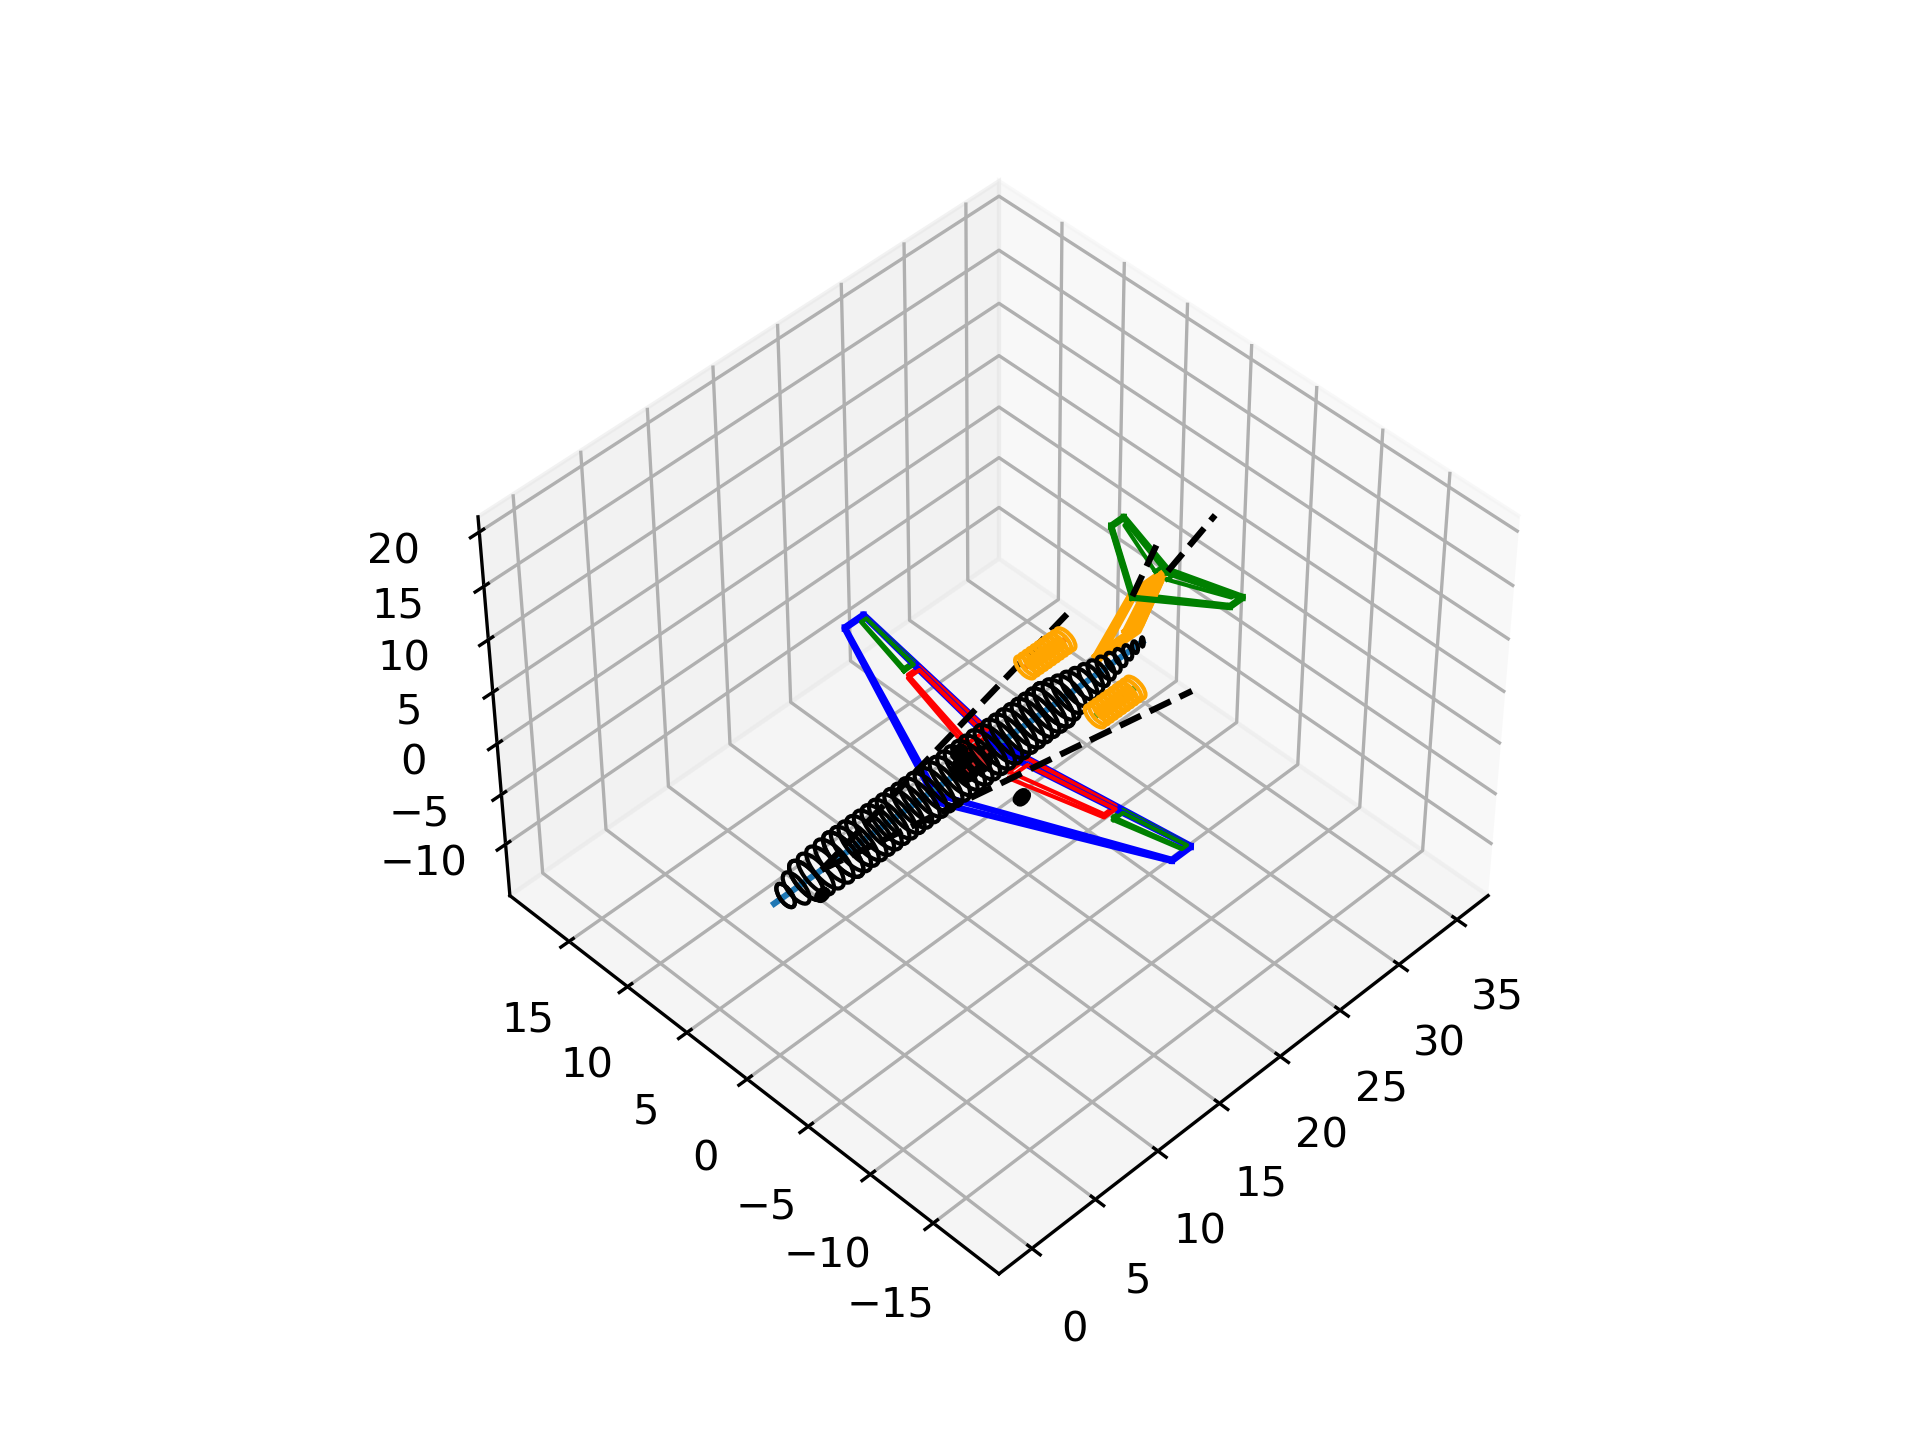
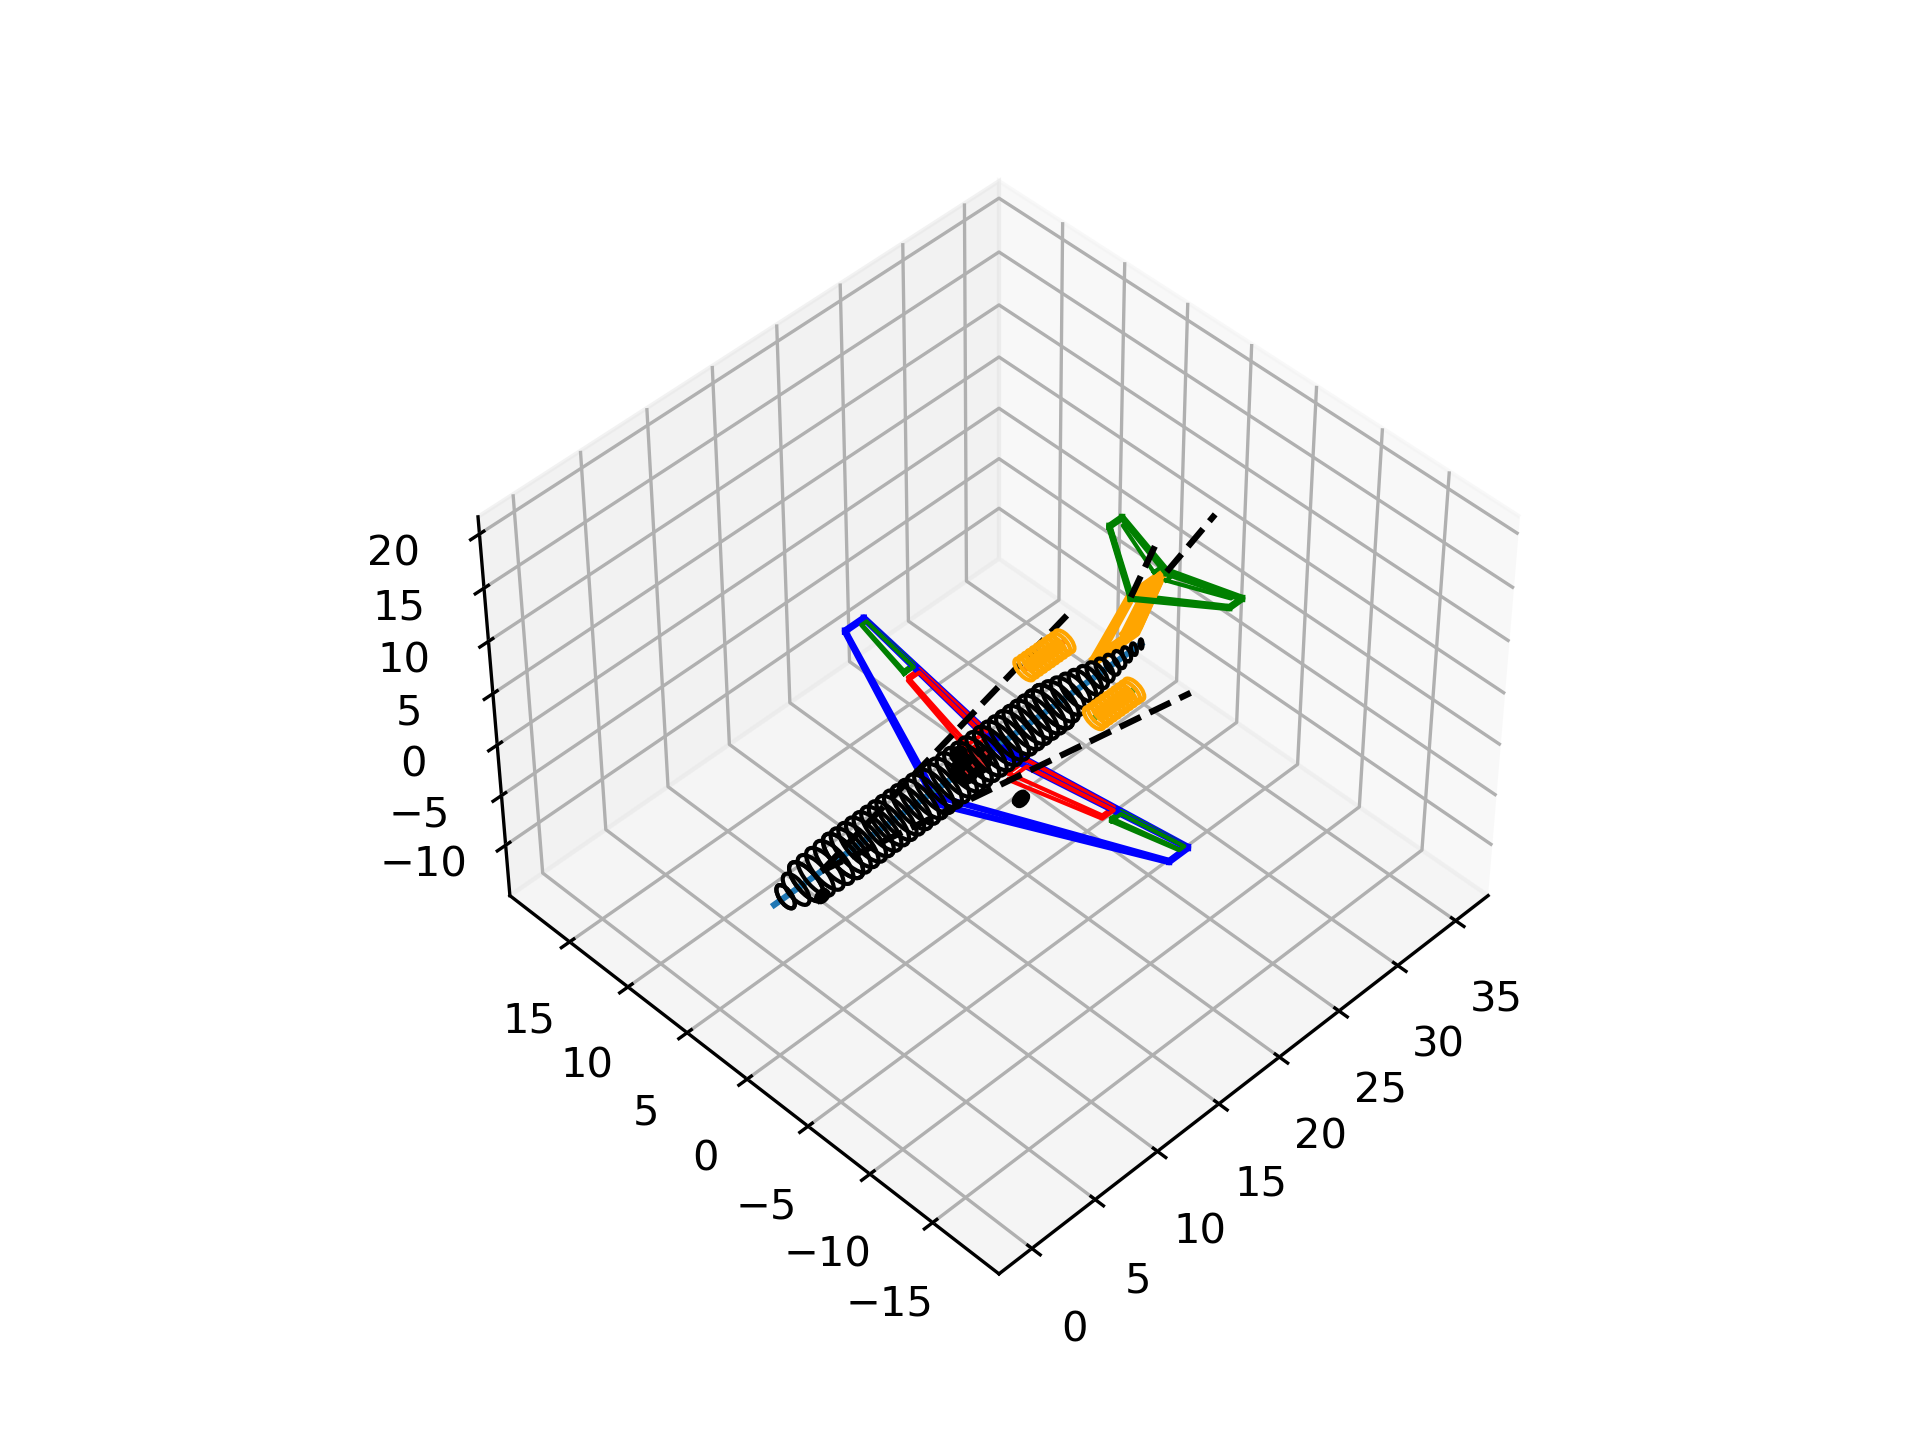
ALO

diff --git a/designTool.py b/designTool.py
@@ -144,22 +144,6 @@ def geometry(airplane):
     xm_w = xr_w + ym_w * np.tan(sweep_w) + (cr_w - cm_w) / 4
     zm_w = zr_w + ym_w * np.tan(dihedral_w)
 
-    # HORIZONTAL TAIL
-
-    L_h = Lc_h * cm_w
-    S_h = (S_w * cm_w / L_h) * Cht
-    b_h = np.sqrt(AR_h * S_h)
-    cr_h = (2 * S_h) / (b_h * (1 + taper_h))
-    ct_h = taper_h * cr_h
-    cm_h = (2 * cr_h / 3) * (1 + taper_h + taper_h**2) / (1 + taper_h)
-    xm_h = xm_w + L_h + (cm_w - cm_h) / 4
-    ym_h = (b_h / 6) * (1 + 2 * taper_h) / (1 + taper_h)
-    zm_h = zr_h + ym_h * np.tan(dihedral_h)
-    xr_h = xm_h - ym_h * np.tan(sweep_h) + (cm_h - cr_h) / 4
-    yt_h = b_h / 2
-    xt_h = xr_h + yt_h * np.tan(sweep_h) + (cr_h - ct_h) / 4
-    zt_h = zr_h + yt_h * np.tan(dihedral_h)
-
     # VERTICAL TAIL
 
     L_v = Lb_v * b_w
@@ -173,8 +157,27 @@ def geometry(airplane):
     xr_v = xm_v - (zm_v - zr_v) * np.tan(sweep_v) + (cm_v - cr_v) / 4
     zt_v = zr_v + b_v
     xt_v = xr_v + (zt_v - zr_v) * np.tan(sweep_v) + (cr_v - ct_v) / 4
+    
+    # HORIZONTAL TAIL
+
+    zr_h = zt_v - 0.1
+    L_h = Lc_h * cm_w
+    S_h = (S_w * cm_w / L_h) * Cht
+    b_h = np.sqrt(AR_h * S_h)
+    cr_h = (2 * S_h) / (b_h * (1 + taper_h))
+    ct_h = taper_h * cr_h
+    cm_h = (2 * cr_h / 3) * (1 + taper_h + taper_h**2) / (1 + taper_h)
+    xm_h = xm_w + L_h + (cm_w - cm_h) / 4
+    ym_h = (b_h / 6) * (1 + 2 * taper_h) / (1 + taper_h)
+    zm_h = zr_h + ym_h * np.tan(dihedral_h)
+    xr_h = xm_h - ym_h * np.tan(sweep_h) + (cm_h - cr_h) / 4
+    yt_h = b_h / 2
+    xt_h = xr_h + yt_h * np.tan(sweep_h) + (cr_h - ct_h) / 4
+    zt_h = zr_h + yt_h * np.tan(dihedral_h)
+    
 
     # Update dictionary with new results
+    airplane["zr_h"] = zr_h
     airplane["b_w"] = b_w
     airplane["cr_w"] = cr_w
     airplane["xt_w"] = xt_w
@@ -3471,88 +3474,88 @@ def standard_airplane(name="fokker100"):
         # (posição da asa, posição das empenagens, posição do motor, posição do trem de pouso
         # principal, comprimento da nacelle do motor)
 
-        airplane = {
-            "type": "transport",  # Can be 'transport', 'fighter', or 'general'
-            "S_w": 90.98082453361354,  # Wing area [m2]
-            "AR_w": 8.341826790683632,  # Wing aspect ratio
-            "taper_w": 0.28,  # Wing taper ratio
-            "sweep_w": 18.621587491997442 * np.pi / 180,  # Wing sweep [rad]
-            "dihedral_w": 3.3 * np.pi / 180,  # Wing dihedral [rad]
-            "xr_w": 12.565590245059521,  # Longitudinal position of the wing (with respect to the fuselage nose) [m]
-            "zr_w": -1.01,  # Vertical position of the wing (with respect to the fuselage nose) [m]
-            "tcr_w": 0.140,  # t/c of the root section of the wing
-            "tct_w": 0.075,  # t/c of the tip section of the wing
-            "Cht": 0.7500064730327484,  # Horizontal tail volume coefficient
-            "Lc_h": 3.972626910377093,  # Non-dimensional lever of the horizontal tail (lever/wing_mac)
-            "AR_h": 4.75,  # HT aspect ratio
-            "taper_h": 0.36,  # HT taper ratio
-            "sweep_h": 29.14 * np.pi / 180,  # HT sweep [rad]
-            "dihedral_h": 4.2 * np.pi / 180,  # HT dihedral [rad]
-            "zr_h": 5.2,  # Vertical position of the HT [m]
-            "tcr_h": 0.1,  # t/c of the root section of the HT
-            "tct_h": 0.1,  # t/c of the tip section of the HT
-            "eta_h": 1.0,  # Dynamic pressure factor of the HT
-            "Cvt": 0.044819424977459194, # Vertical tail volume coefficient
-            "Lb_v": 0.43324985683964373,  # Non-dimensional lever of the vertical tail (lever/wing_span)
-            "AR_v": 1.314,  # VT aspect ratio
-            "taper_v": 0.754,  # VT taper ratio
-            "sweep_v": 35.57 * np.pi / 180,  # VT sweep [rad]
-            "zr_v": 3.24 / 2,  # Vertical position of the VT [m]
-            "tcr_v": 0.1,  # t/c of the root section of the VT
-            "tct_v": 0.1,  # t/c of the tip section of the VT
-            "L_f": 29.27,  # Fuselage length [m] <- Otimizado de acordo com a planilha PrestoCabin (ln 372)
-            "D_f": 3.24,  # Fuselage diameter [m] <- Otimizado de acordo com a planilha PrestoCabin (ln 136)
-            "x_n": 22.5,  # Longitudinal position of the nacelle frontal face [m]
-            "y_n": 2.80,  # Lateral position of the nacelle centerline [m]
-            "z_n": 0.85,  # Vertical position of the nacelle centerline [m]
-            "L_n": 3.27,  # Nacelle length [m]
-            "D_n": 1.64,  # Nacelle diameter [m]
-            "n_engines": 2,  # Number of engines
-            "n_engines_under_wing": 0,  # Number of engines installed under the wing
-            "engine": {
-                "model": "Howe turbofan",  # Check engineTSFC function for options
-                "BPR": 4.9,  # Engine bypass ratio
-                "Cbase": 0.39 / 3600,
-                "weight": 1120 * gravity,
-            },  # Motor CF34-C5
-            "x_nlg": 3.64,  # Longitudinal position of the nose landing gear [m]
-            "x_mlg": 16.845590245059523,  # Longitudinal position of the main landing gear [m]
-            "y_mlg": 2.52,  # Lateral position of the main landing gear [m]
-            "z_lg": -2.45,  # Vertical position of the landing gear [m]
-            "x_tailstrike": 22,  # Longitudinal position of critical tailstrike point [m]
-            "z_tailstrike": -0.64,  # Vertical position of critical tailstrike point [m]
-            "c_tank_c_w": 0.4,  # Fraction of the wing chord occupied by the fuel tank
-            "x_tank_c_w": 0.2,  # Fraction of the wing chord where fuel tank starts
-            "clmax_w": 1.8,  # Maximum lift coefficient of wing airfoil
-            "flap_type": "double slotted",  # Flap type
-            "c_flap_c_wing": 0.30,  # Fraction of the wing chord occupied by flaps
-            "b_flap_b_wing": 0.60,  # Fraction of the wing span occupied by flaps (including fuselage portion)
-            "slat_type": None,  # Slat type
-            "c_slat_c_wing": 0.00,  # Fraction of the wing chord occupied by slats
-            "b_slat_b_wing": 0.00,  # Fraction of the wing span occupied by slats
-            "c_ail_c_wing": 0.27,  # Fraction of the wing chord occupied by aileron
-            "b_ail_b_wing": 0.34,  # Fraction of the wing span occupied by aileron
-            "h_ground": 35.0
-            * ft2m,  # Distance to the ground for ground effect computation [m]
-            "k_exc_drag": 0.03,  # Excrescence drag factor
-            "altitude_takeoff": 0.0,  # Altitude for takeoff computation [m]
-            "distance_takeoff": 1600,  # Required takeoff distance [m]
-            "altitude_landing": 0.0,  # Altitude for landing computation [m]
-            "distance_landing": 1600,  # Required landing distance [m] (The actual Fokker100 distance is 1350 m but it is very restrictive compared to the historical regression. Therefore I kept the same TO distance since the aircraft should takeoff and land at the same runway)
-            "MLW_frac": 34400
-            / 37527,  # Max Landing Weight / Max Takeoff Weight NAO SEI
-            "altitude_cruise": 12341.016673282771,  # Cruise altitude [m]
-            "Mach_cruise": 0.7500525021972817,  # Cruise Mach number
-            "range_cruise": 5154614.649600215,  # Cruise range [m]
-            "loiter_time": 45 * 60,  # Loiter time [s]
-            "altitude_altcruise": 4572,  # Alternative cruise altitude [m]
-            "Mach_altcruise": 0.4,  # Alternative cruise Mach number
-            "range_altcruise": 200 * nm2m,  # Alternative cruise range [m]
-            "W_payload": (76 * 97.0688 + 460) * gravity,  # Payload weight [N]
-            "xcg_payload": 12.76,  # Longitudinal position of the Payload center of gravity [m]
-            "W_crew": 408.233 * gravity,  # Crew weight [N]
-            "xcg_crew": 2.5,  # Longitudinal position of the Crew center of gravity [m]
-            "rho_f": 804,  # Fuel density kg/m3 (This is Jet A-1)
-            # "W0_guess": 36740 * gravity,  # Guess for MTOW
-        }
+      airplane = {
+          "type": "transport",  # Can be 'transport', 'fighter', or 'general'
+          "S_w": 92,  # Wing area [m2]
+          "AR_w": 8.0,  # Wing aspect ratio
+          "taper_w": 0.28,  # Wing taper ratio
+          "sweep_w": 16.5 * np.pi / 180,  # Wing sweep [rad]
+          "dihedral_w": 3.3 * np.pi / 180,  # Wing dihedral [rad]
+          "xr_w": 12.82,  # Longitudinal position of the wing (with respect to the fuselage nose) [m]
+          "zr_w": -1.01,  # Vertical position of the wing (with respect to the fuselage nose) [m]
+          "tcr_w": 0.140,  # t/c of the root section of the wing
+          "tct_w": 0.075,  # t/c of the tip section of the wing
+          "Cht": 0.78,  # Horizontal tail volume coefficient
+          "Lc_h": 3.7,  # Non-dimensional lever of the horizontal tail (lever/wing_mac)
+          "AR_h": 4.75,  # HT aspect ratio
+          "taper_h": 0.36,  # HT taper ratio
+          "sweep_h": 29.14 * np.pi / 180,  # HT sweep [rad]
+          "dihedral_h": 4.2 * np.pi / 180,  # HT dihedral [rad]
+          "zr_h": 5.2,  # Vertical position of the HT [m]
+          "tcr_h": 0.1,  # t/c of the root section of the HT
+          "tct_h": 0.1,  # t/c of the tip section of the HT
+          "eta_h": 1.0,  # Dynamic pressure factor of the HT
+          "Cvt": 0.05,  # Vertical tail volume coefficient
+          "Lb_v": 0.42,  # Non-dimensional lever of the vertical tail (lever/wing_span)
+          "AR_v": 1.314,  # VT aspect ratio
+          "taper_v": 0.754,  # VT taper ratio
+          "sweep_v": 35.57 * np.pi / 180,  # VT sweep [rad]
+          "zr_v": 3.24 / 2,  # Vertical position of the VT [m]
+          "tcr_v": 0.1,  # t/c of the root section of the VT
+          "tct_v": 0.1,  # t/c of the tip section of the VT
+          "L_f": 29.27,  # Fuselage length [m] <- Otimizado de acordo com a planilha PrestoCabin (ln 372)
+          "D_f": 3.24,  # Fuselage diameter [m] <- Otimizado de acordo com a planilha PrestoCabin (ln 136)
+          "x_n": 22.5,  # Longitudinal position of the nacelle frontal face [m]
+          "y_n": 2.80,  # Lateral position of the nacelle centerline [m]
+          "z_n": 0.85,  # Vertical position of the nacelle centerline [m]
+          "L_n": 3.27,  # Nacelle length [m]
+          "D_n": 1.64,  # Nacelle diameter [m]
+          "n_engines": 2,  # Number of engines
+          "n_engines_under_wing": 0,  # Number of engines installed under the wing
+          "engine": {
+              "model": "Howe turbofan",  # Check engineTSFC function for options
+              "BPR": 4.9,  # Engine bypass ratio
+              "Cbase": 0.39 / 3600,
+              "weight": 1120 * gravity,
+          },  # Motor CF34-C5
+          "x_nlg": 3.64,  # Longitudinal position of the nose landing gear [m]
+          "x_mlg": 17.10,  # Longitudinal position of the main landing gear [m]
+          "y_mlg": 2.52,  # Lateral position of the main landing gear [m]
+          "z_lg": -2.45,  # Vertical position of the landing gear [m]
+          "x_tailstrike": 22,  # Longitudinal position of critical tailstrike point [m]
+          "z_tailstrike": -0.64,  # Vertical position of critical tailstrike point [m]
+          "c_tank_c_w": 0.4,  # Fraction of the wing chord occupied by the fuel tank
+          "x_tank_c_w": 0.2,  # Fraction of the wing chord where fuel tank starts
+          "clmax_w": 1.8,  # Maximum lift coefficient of wing airfoil
+          "flap_type": "double slotted",  # Flap type
+          "c_flap_c_wing": 0.30,  # Fraction of the wing chord occupied by flaps
+          "b_flap_b_wing": 0.60,  # Fraction of the wing span occupied by flaps (including fuselage portion)
+          "slat_type": None,  # Slat type
+          "c_slat_c_wing": 0.00,  # Fraction of the wing chord occupied by slats
+          "b_slat_b_wing": 0.00,  # Fraction of the wing span occupied by slats
+          "c_ail_c_wing": 0.27,  # Fraction of the wing chord occupied by aileron
+          "b_ail_b_wing": 0.34,  # Fraction of the wing span occupied by aileron
+          "h_ground": 35.0
+          * ft2m,  # Distance to the ground for ground effect computation [m]
+          "k_exc_drag": 0.03,  # Excrescence drag factor
+          "altitude_takeoff": 0.0,  # Altitude for takeoff computation [m]
+          "distance_takeoff": 1600,  # Required takeoff distance [m]
+          "altitude_landing": 0.0,  # Altitude for landing computation [m]
+          "distance_landing": 1600,  # Required landing distance [m] (The actual Fokker100 distance is 1350 m but it is very restrictive compared to the historical regression. Therefore I kept the same TO distance since the aircraft should takeoff and land at the same runway)
+          "MLW_frac": 34400
+          / 37527,  # Max Landing Weight / Max Takeoff Weight NAO SEI
+          "altitude_cruise": 11800,  # Cruise altitude [m]
+          "Mach_cruise": 0.76,  # Cruise Mach number
+          "range_cruise": 4700 * 10**3,  # Cruise range [m]
+          "loiter_time": 45 * 60,  # Loiter time [s]
+          "altitude_altcruise": 4572,  # Alternative cruise altitude [m]
+          "Mach_altcruise": 0.4,  # Alternative cruise Mach number
+          "range_altcruise": 200 * nm2m,  # Alternative cruise range [m]
+          "W_payload": 76 * 91 * gravity,  # Payload weight [N]
+          "xcg_payload": 12.26,  # Longitudinal position of the Payload center of gravity [m]
+          "W_crew": 4 * 91 * gravity,  # Crew weight [N]
+          "xcg_crew": 2.5,  # Longitudinal position of the Crew center of gravity [m]
+          "rho_f": 804,  # Fuel density kg/m3 (This is Jet A-1)
+          # "W0_guess": 36740 * gravity,  # Guess for MTOW
+      }
     return airplane

diff --git a/Optimization.py b/Optimization.py
@@ -242,7 +242,7 @@ callback = MyCallback()
 
 algorithm = NSGA2(
     pop_size=300,
-    n_offsprings=50,
+    n_offsprings=100,
     sampling=FloatRandomSampling(),
     crossover=SBX(prob=0.9, eta=15),
     mutation=PM(eta=20),
@@ -257,7 +257,7 @@ algorithm = NSGA2(
 #  Avaliação do critério de parada a cada: 100 gerações.
 
 termination = DefaultSingleObjectiveTermination(
-    xtol=1e-5, ftol=50, period=100, n_max_gen=800, n_max_evals=100000
+    xtol=1e-5, ftol=50, period=100, n_max_gen=2000, n_max_evals=100000
 )
 
 ########-------------------- ATIVANDO O OTIMIZADOR ---------------------#######
@@ -323,18 +323,18 @@ Lbv_Upper = 0.42 * 1.1
 
 ######### Observando os valores das variáveis no critério de parada, no domínio
 #########original dos valores.
-Sweep = (Denormalize(X[0], Sweep_Lower, Sweep_Upper)) * (180 / np.pi)
-MachCruise = Denormalize(X[1], MachCruise_Lower, MachCruise_Upper)
-AR_w = Denormalize(X[2], AR_Lower, AR_Upper)
-S_w = Denormalize(X[3], SW_Lower, SW_Upper)
-Range = Denormalize(X[4], Range_Lower, Range_Upper)
-AltCruise = Denormalize(X[5], AltCruise_Lower, AltCruise_Upper)
-xr_w = Denormalize(X[6], xr_w_Lower, xr_w_Upper)
-Cht = Denormalize(X[7], Cht_Lower, Cht_Upper)
-Lch = Denormalize(X[8], Lch_Lower, Lch_Upper)
-Cvt = Denormalize(X[9], Cvt_Lower, Cvt_Upper)
-Lbv = Denormalize(X[10], Lbv_Lower, Lbv_Upper)
-T0 = 130000 + res.G[12] * 130000
+Sweep = (Denormalize(X[0][0], Sweep_Lower, Sweep_Upper)) * (180 / np.pi)
+MachCruise = Denormalize(X[0][1], MachCruise_Lower, MachCruise_Upper)
+AR_w = Denormalize(X[0][2], AR_Lower, AR_Upper)
+S_w = Denormalize(X[0][3], SW_Lower, SW_Upper)
+Range = Denormalize(X[0][4], Range_Lower, Range_Upper)
+AltCruise = Denormalize(X[0][5], AltCruise_Lower, AltCruise_Upper)
+xr_w = Denormalize(X[0][6], xr_w_Lower, xr_w_Upper)
+Cht = Denormalize(X[0][7], Cht_Lower, Cht_Upper)
+Lch = Denormalize(X[0][8], Lch_Lower, Lch_Upper)
+Cvt = Denormalize(X[0][9], Cvt_Lower, Cvt_Upper)
+Lbv = Denormalize(X[0][10], Lbv_Lower, Lbv_Upper)
+T0 = 130000 + res.G[0][12] * 130000
 
 
 ##### Chamdando o dicionário novamente para faze o plot da aeronave com valo-

diff --git a/hw06.py b/hw06.py
@@ -13,7 +13,24 @@ gamma_air = 1.4
 R_air = 287
 
 # Load the standard airplane
+
+
 airplane = dt.standard_airplane("F70_XerifeEdition_Optimized")
+
+airplane["sweep_w"] = 18.81282932617969 *(np.pi/180)
+airplane["Mach_cruise"] = 0.7502125074428585
+airplane["AR_w"] = 7.467089692520907
+airplane["S_w"] = 91.29784610895916
+airplane["range_cruise"] = 4871068.883647906
+airplane["altitude_cruise"] = 12073.615637943889
+airplane["xr_w"] = 12.59957729339388
+
+airplane["x_mlg"] = 12.59957729339388 + 4.28
+
+airplane["Cht"] = 0.78870372248287
+airplane["Lc_h"] = 3.727775473999575
+airplane["Cvt"] = 0.05514317941289336
+airplane["Lb_v"] = 0.4508784918373203
 
 # dt.geometry(airplane)
 # Modify one parameter (if necessary)
